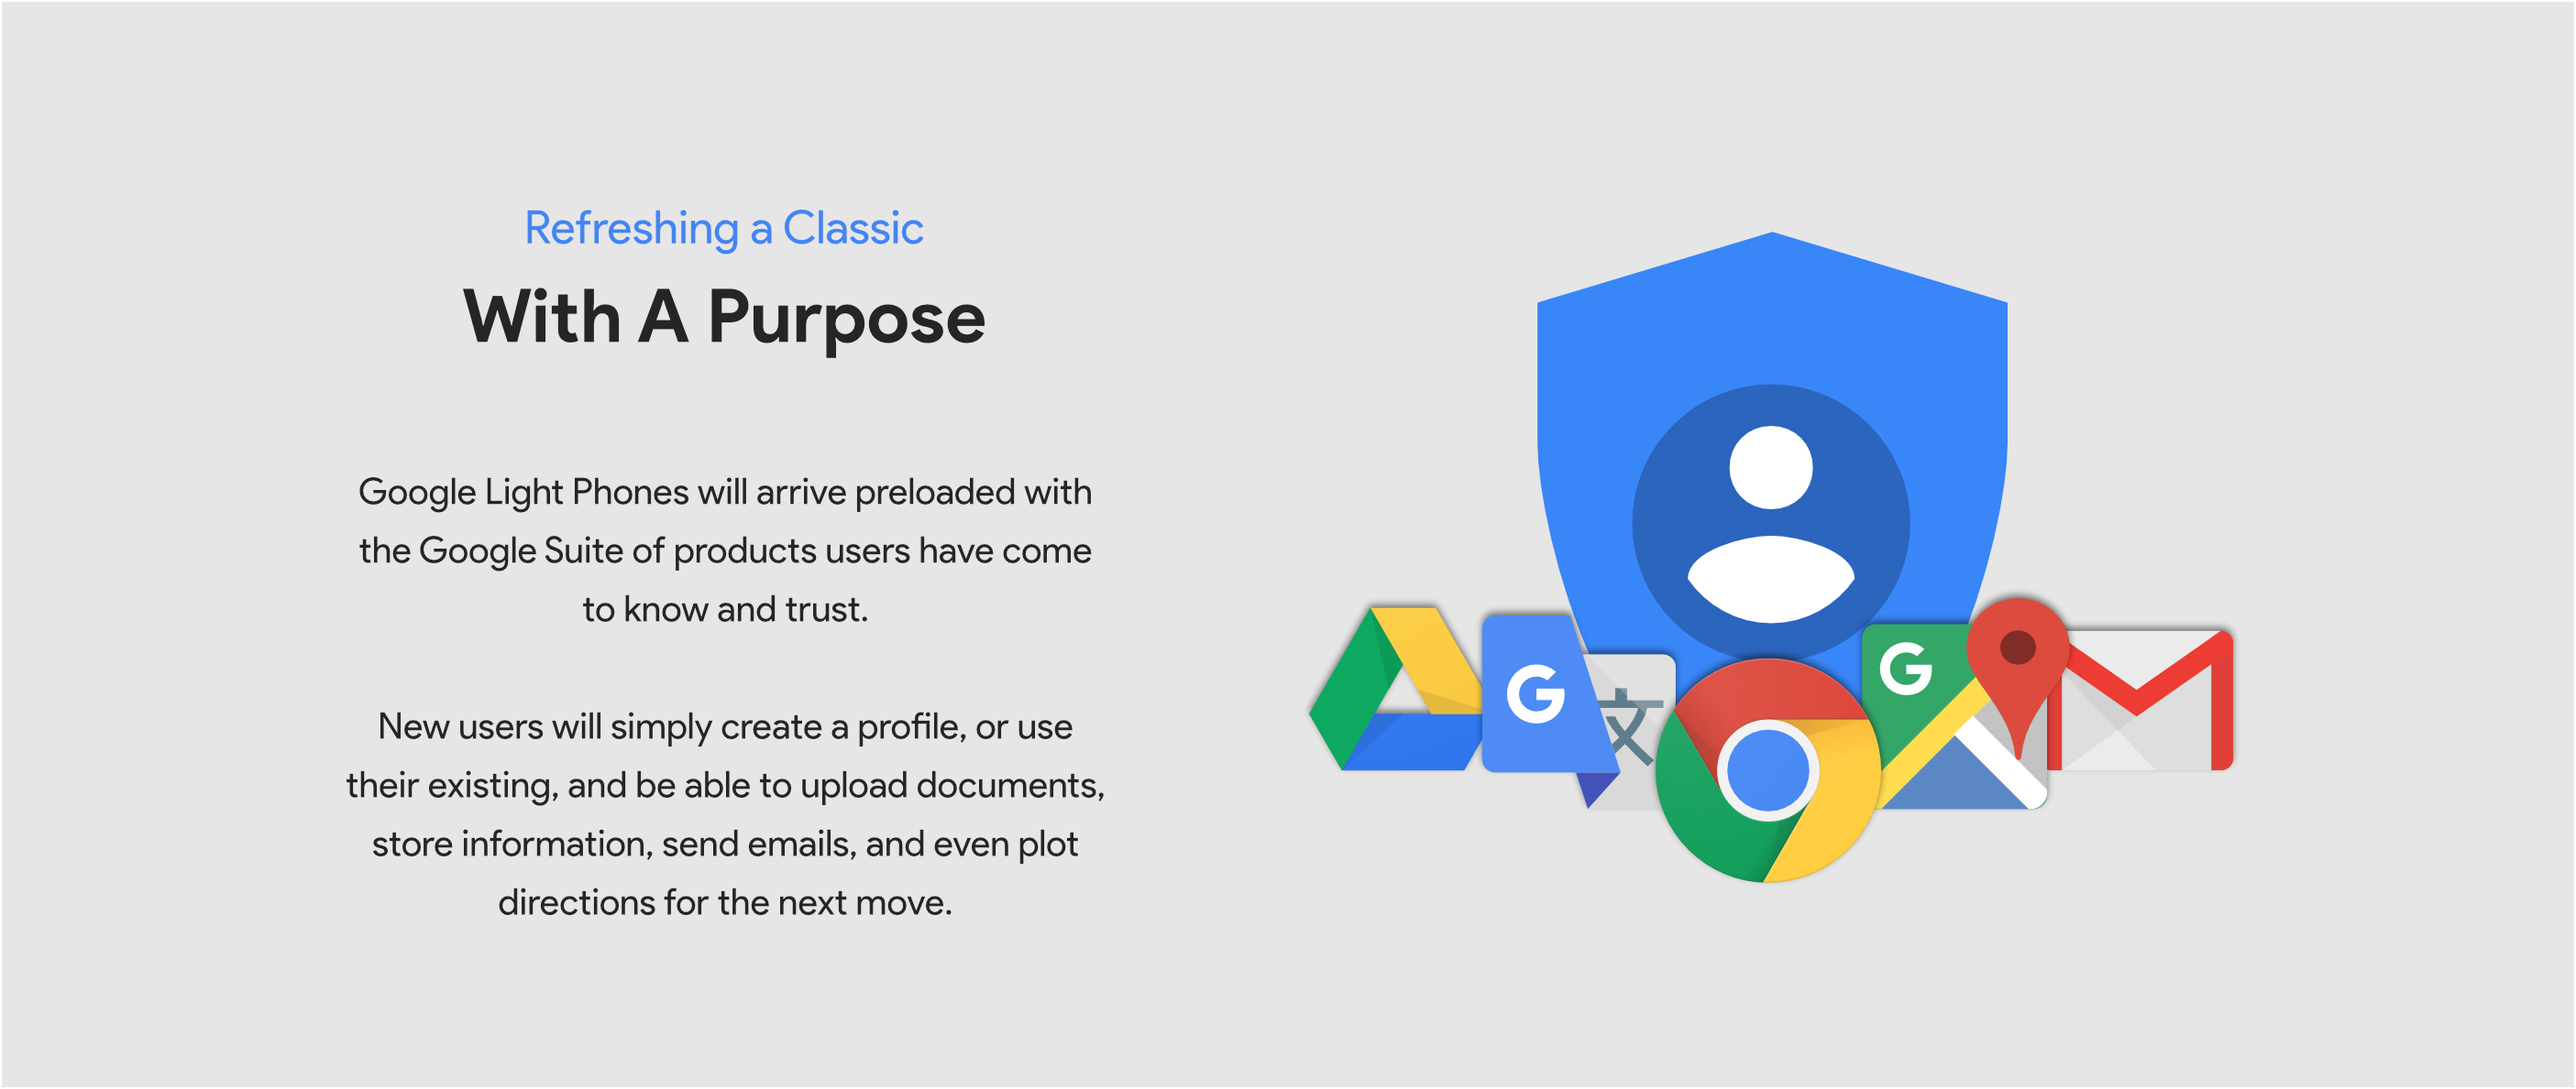
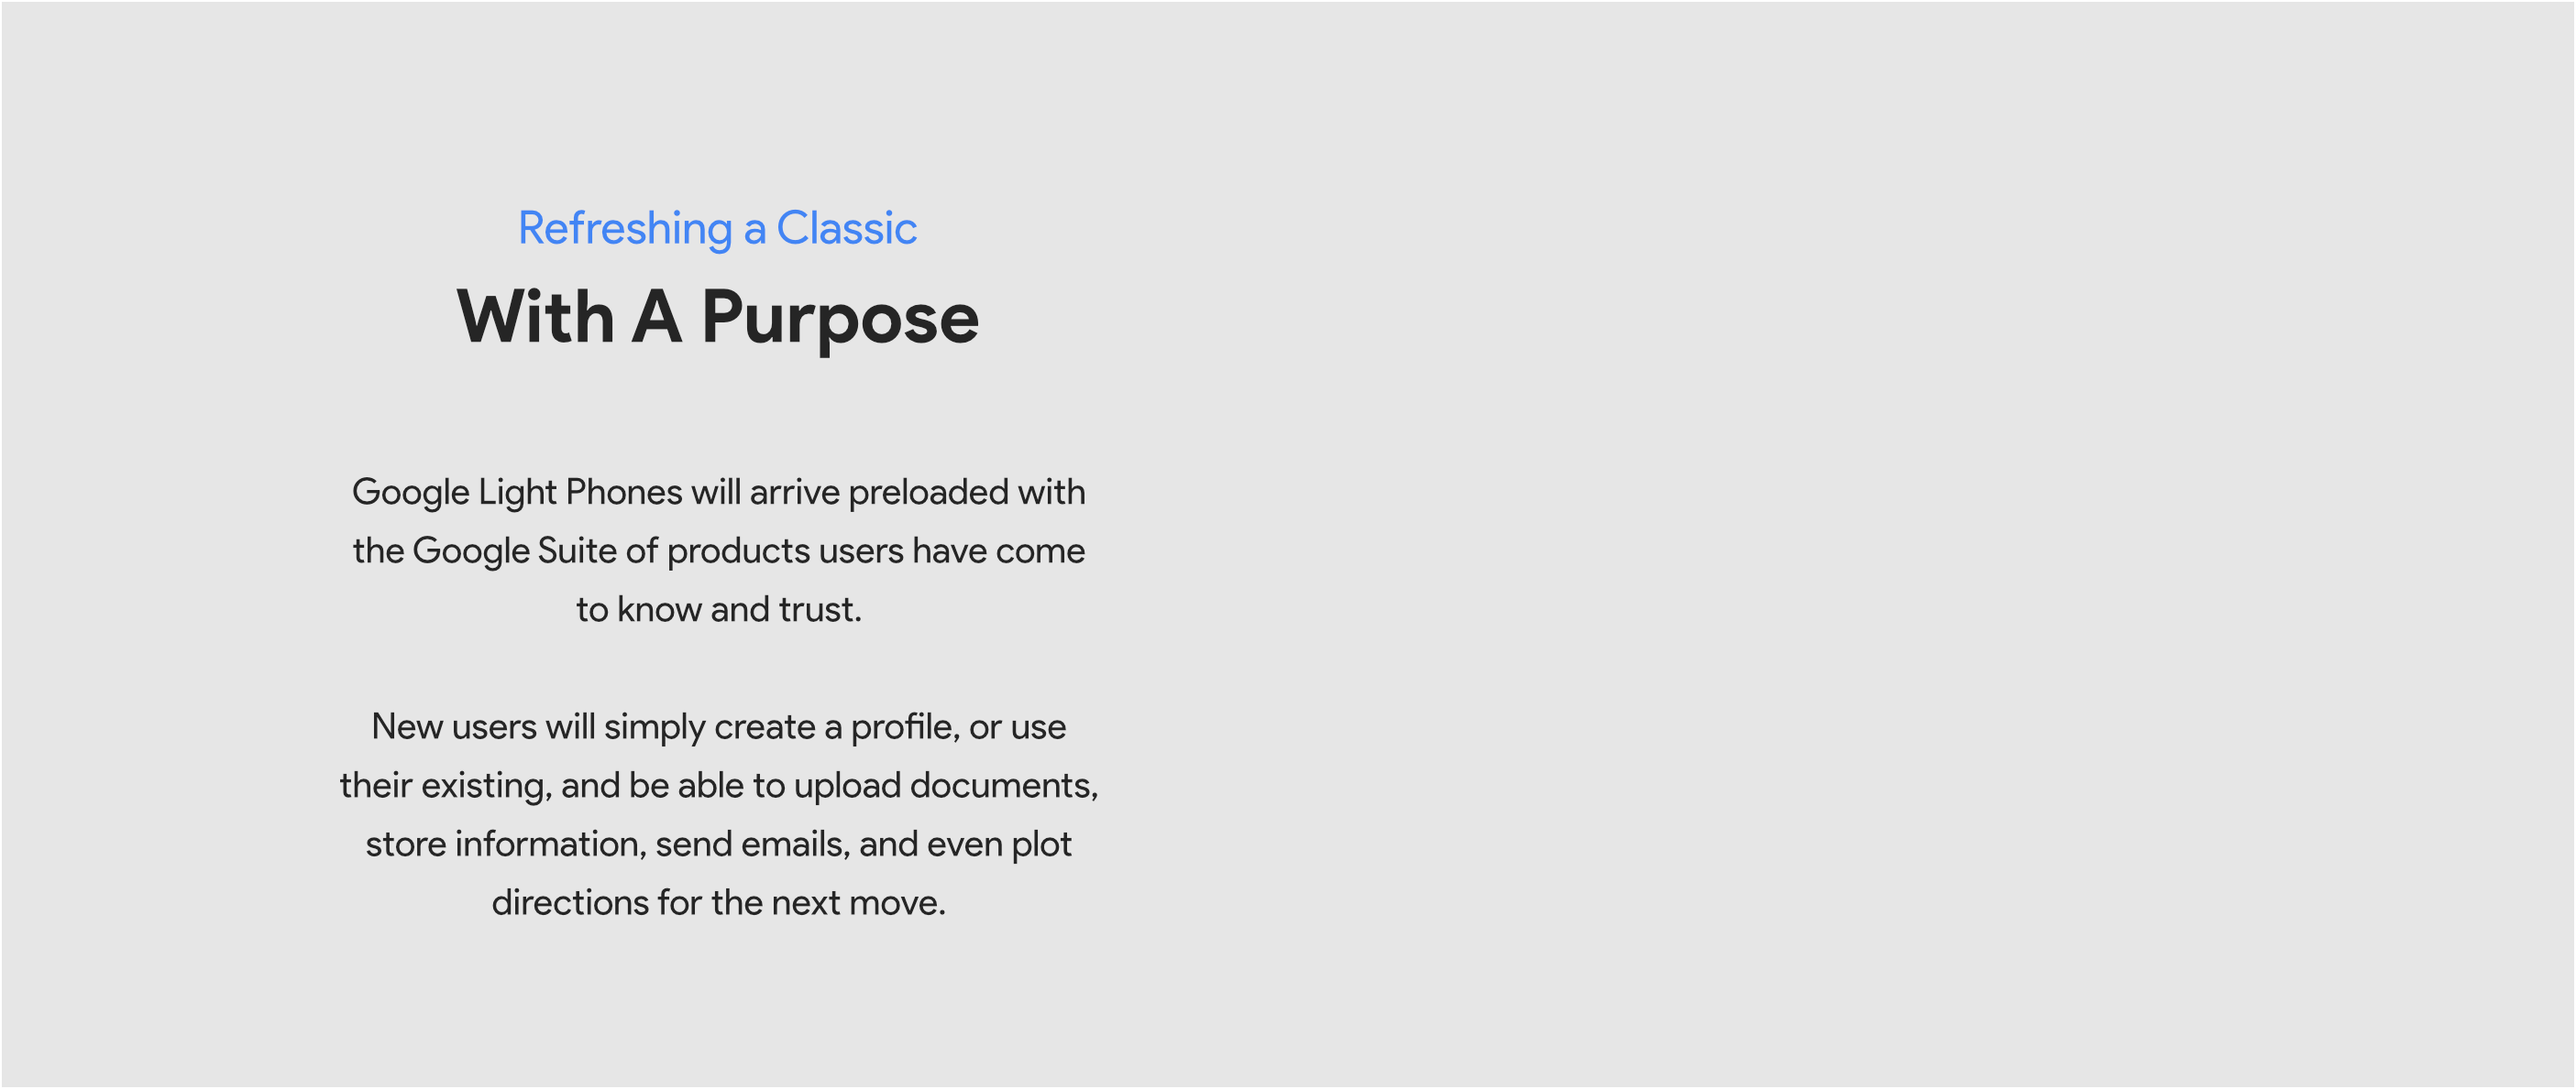
acct

diff --git a/google/css/style.css b/google/css/style.css
@@ -706,11 +706,7 @@ h1, h2, h3, h4, h5, h6 {
   box-shadow: 0 18px 0 0 transparent,
               0 0 0 -1px rgba(53,131,252,0);
   transition: all 400ms ease 50ms;
-} 
-/*#durable .techSpecs p:hover{
-  box-shadow: 0 18px 0 0 transparent,
-              0 4px 0 -1px rgba(53,131,252,1);
-}*/
+}
 #durable .techSpecs:hover p{
   box-shadow: 0 18px 0 0 transparent,
               0 4px 0 -1px rgba(53,131,252,1);
@@ -786,6 +782,29 @@ h1, h2, h3, h4, h5, h6 {
   width: 100vw;
   height: 85vh;
 }
+#account .accountContent{
+  position: relative;
+  height: inherit;
+}
+#account .techSpecs{
+  position: absolute;
+  top: 75px;
+  right: 100px;
+  z-index: 10;
+  display: flex;
+  flex-flow: row nowrap;
+  align-items: center;
+  color: #3583FC;
+  text-decoration: none;
+  padding: 12px;
+}
+#account .techSpecs img{
+  display: block;
+  height: 450px;
+  width: auto;
+  padding-right: 8px;
+}
+
 
 
 

diff --git a/google/index.html b/google/index.html
@@ -290,6 +290,11 @@
     ============================-->
     <section id="account" class="wow fadeInUp" data-wow-delay="0.2s">
       <div class="container">
+        <div class="accountContent">
+          <div class="techSpecs wow fadeInUp" data-wow-delay="0.6s">
+            <img src="img/account.gif">
+          </div>
+        </div>
       </div>
     </section>
 
